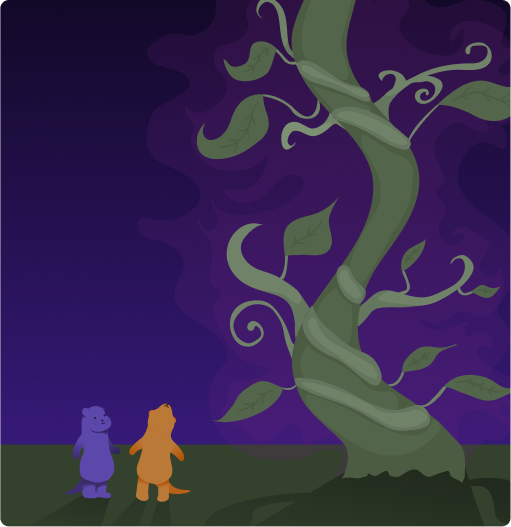
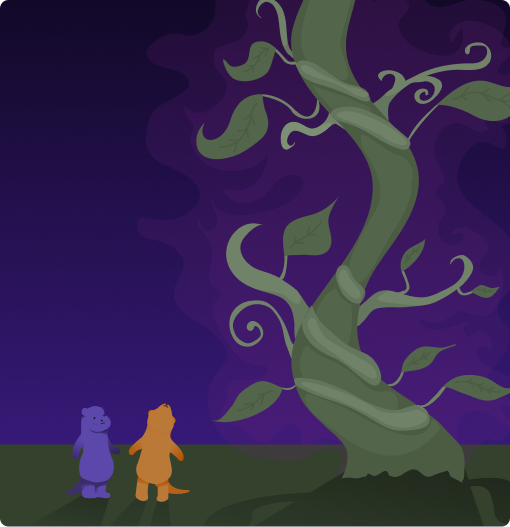
more artwork corrections

Changed region(s): [[0.9706, 0.9715, 1.0, 1.0], [0.9412, 0.0911, 0.9706, 0.1214], [0.0, 0.9715, 0.0294, 1.0]]

diff --git a/pages/playground.html b/pages/playground.html
@@ -164,9 +164,9 @@
               </div>
 
               <div class="grid three-col artwork">
-                <img src="../assets/playground-imgs/sh24Logo.png" loading="lazy" alt="Stormhacks 2024 logo" width="518" height="531">
-                <img src="../assets/playground-imgs/surgePins.png" loading="lazy" alt="Enamel pin designs" width="512" height="527">
-                <img src="../assets/playground-imgs/sh24Track.png" loading="lazy" alt="Stormhacks 2024 track illustration" width="514" height="527">
+                <img src="../assets/playground-imgs/sh24Logo.png" loading="lazy" alt="Stormhacks 2024 logo" width="510" height="527">
+                <img src="../assets/playground-imgs/surgePins.png" loading="lazy" alt="Enamel pin designs" width="510" height="527">
+                <img src="../assets/playground-imgs/sh24Track.png" loading="lazy" alt="Stormhacks 2024 track illustration" width="510" height="527">
               </div>
 
               <div class="grid three-col artwork">
